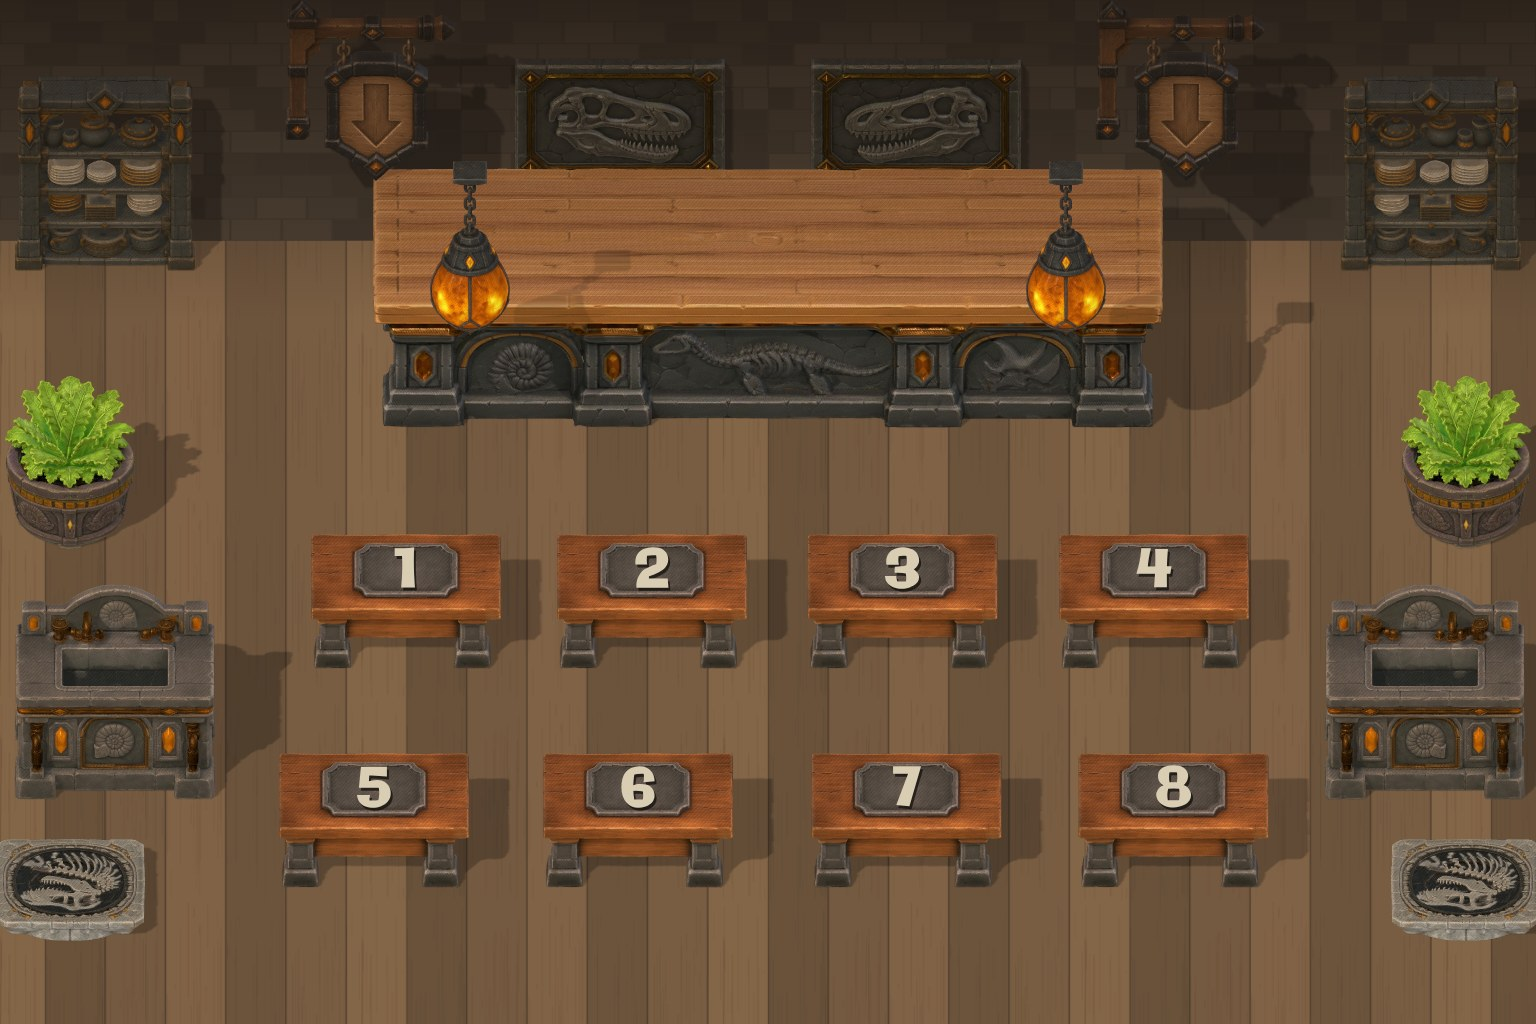
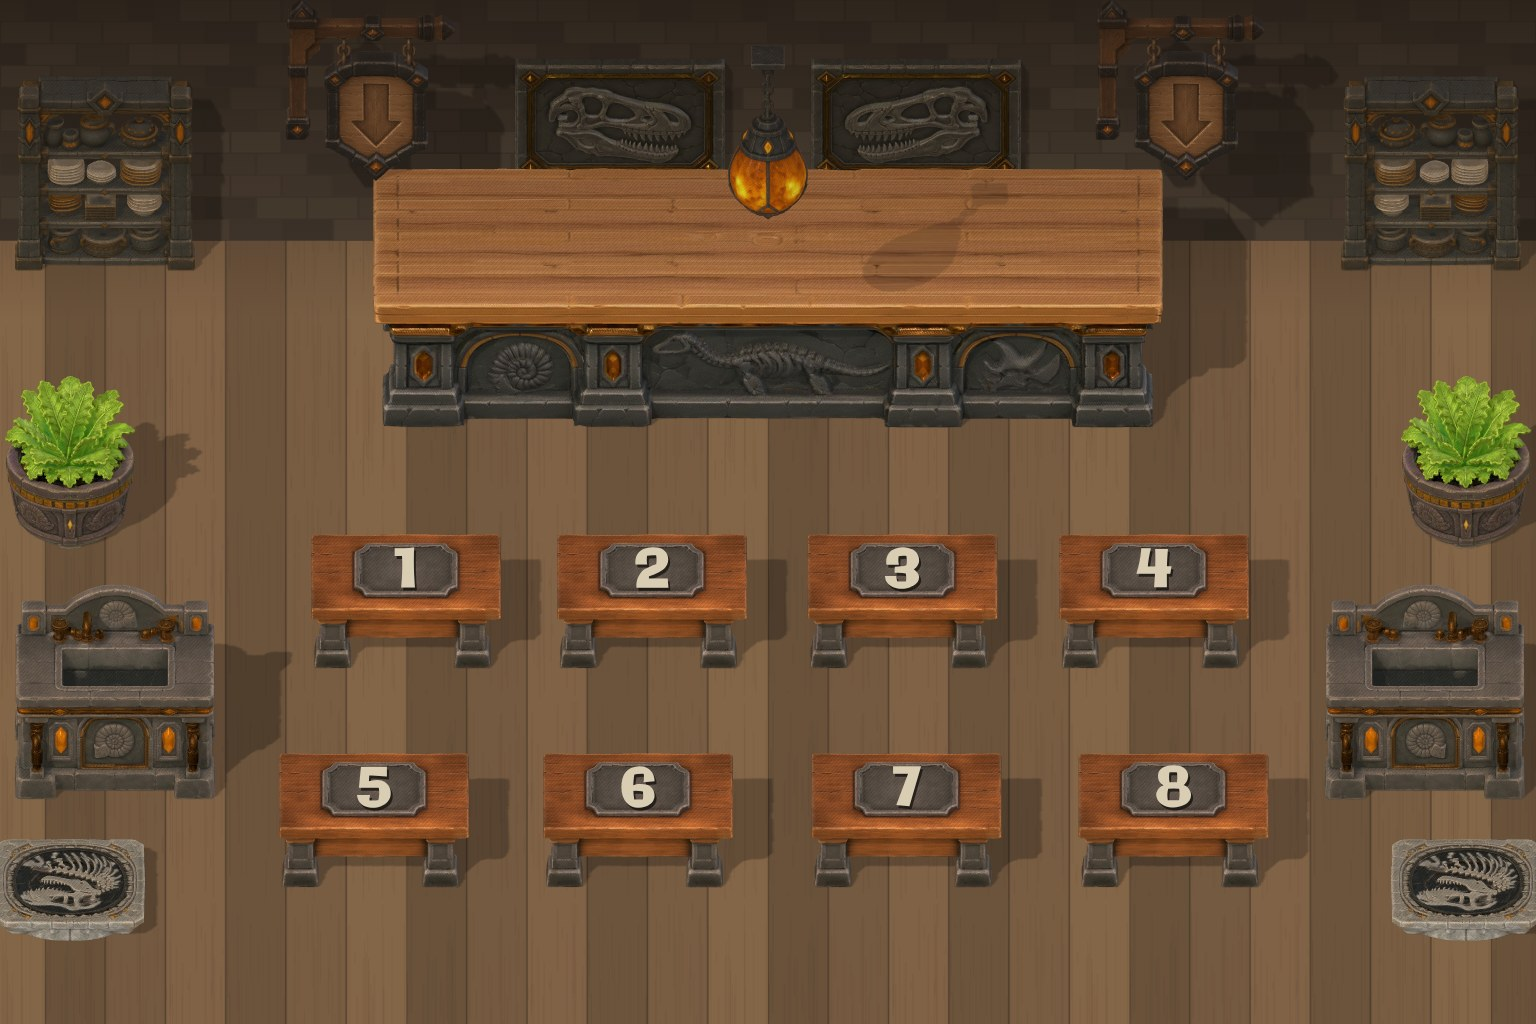
Put the plated food on the counter top, and move the lamp above it
Rone asked whether the pickup could be the actual counter, with the food on
the countertop, and offered to move the lamps to make room. Both, and the
lamps did have to move.

TICKET.base was a single global at art 404 that never branched when GEO did.
On the painted board 404 is the strip of floor at the counter's base, which is
what its comment described. On the rendered board floorTop is 430, so the same
404 lands 26px ABOVE the floor line -- on the counter's carved stone plinth,
not the floor in front of it. It survived four commits unnoticed because it
still looked deliberate: light plates on flat dark stone read well, better
than the painted board's, where patience bars and the timer sit behind them.
So this is a real GEO omission that happened to be invisible.

It now reads GEO.ticketBase: 404 painted, 315 for 3d. The timber slab runs art
165-315, so bottom-aligning at 315 sets the plates on its front edge with the
NEXT UP label at 190-206 still on timber. The replaced comment said plates
"cannot sit on the counter itself -- that is furniture the player walks in
front of, not on". True of the painted bench, which has no usable top surface
at this scale; not true of a modelled counter with a 150px slab. The player
still stands on the floor pad below to collect, so the reach is unchanged.

The lamps were hanging exactly where the food now goes: at hang 335 a lamp
occupies art y 170-298 against a plate's 216-315, so the board's lamps would
[…]

diff --git a/index.html b/index.html
@@ -620,12 +620,12 @@
     // because the renderer places tables exactly there, where the painting did not.
     ? { floorTop: 430, r1: { y: 631, padY: 709, barY: 522 },
                        r2: { y: 850, padY: 927, barY: 741 },
-        passY: 480, busY: 760, padAtX: true }
+        passY: 480, busY: 760, padAtX: true, ticketBase: 315 }
     // Measured off the painting, and out of spec on every band by 45-115px --
     // see DINING-ROOM-3D-RUNBOOK.md section 1. Kept until the swap.
     : { floorTop: 300, r1: { y: 465, padY: 590, barY: 398 },
                        r2: { y: 700, padY: 855, barY: 612 },
-        passY: 357, busY: 760, padAtX: false };
+        passY: 357, busY: 760, padAtX: false, ticketBase: 404 };
 
   const counterRect = { x: 0, y: 0, w: W, h: A(430) };
   // The player stands in front of the counter, overlapping its lower face, so
@@ -694,7 +694,24 @@
   // Sized so the two queues never meet in the middle — at four a side they
   // would otherwise read as one row of eight and the section split, which is
   // the whole point of two passes, would be invisible.
-  const TICKET = { slot: 68, maxH: 62, base: A(404), pitch: 70 };
+  // `base` is where a plate's BOTTOM edge sits, and it is the one number in
+  // here that had to follow GEO. On the painted board art 404 is the strip of
+  // floor at the counter's base; on the rendered board floorTop is 430, so the
+  // same 404 lands 26px ABOVE the floor line -- on the counter's carved stone
+  // plinth rather than in front of it. It went unnoticed because the plates
+  // stayed readable there: light plates on flat dark stone is good contrast,
+  // better than the painted board's, so nothing looked broken.
+  //
+  // 315 puts them on the timber counter top instead, which is where plated
+  // food waits at a real pass and what Rone asked for. The slab runs art
+  // 165-315, so bottom-aligning at 315 sets the plates on its front edge with
+  // the NEXT UP label at 190-206 still on timber. The comment this replaces
+  // said plates "cannot sit on the counter itself -- that is furniture the
+  // player walks in front of, not on"; that was true of the painted bench,
+  // which has no usable top surface at this scale. It is not true of a
+  // modelled counter with a 150px-deep slab, and the player still stands on
+  // the floor pad below to collect, so nothing about the reach changes.
+  const TICKET = { slot: 68, maxH: 62, base: A(GEO.ticketBase), pitch: 70 };
 
   // Fits a plate inside its slot without distorting it, bottom-aligned.
   function foodBox(name){
